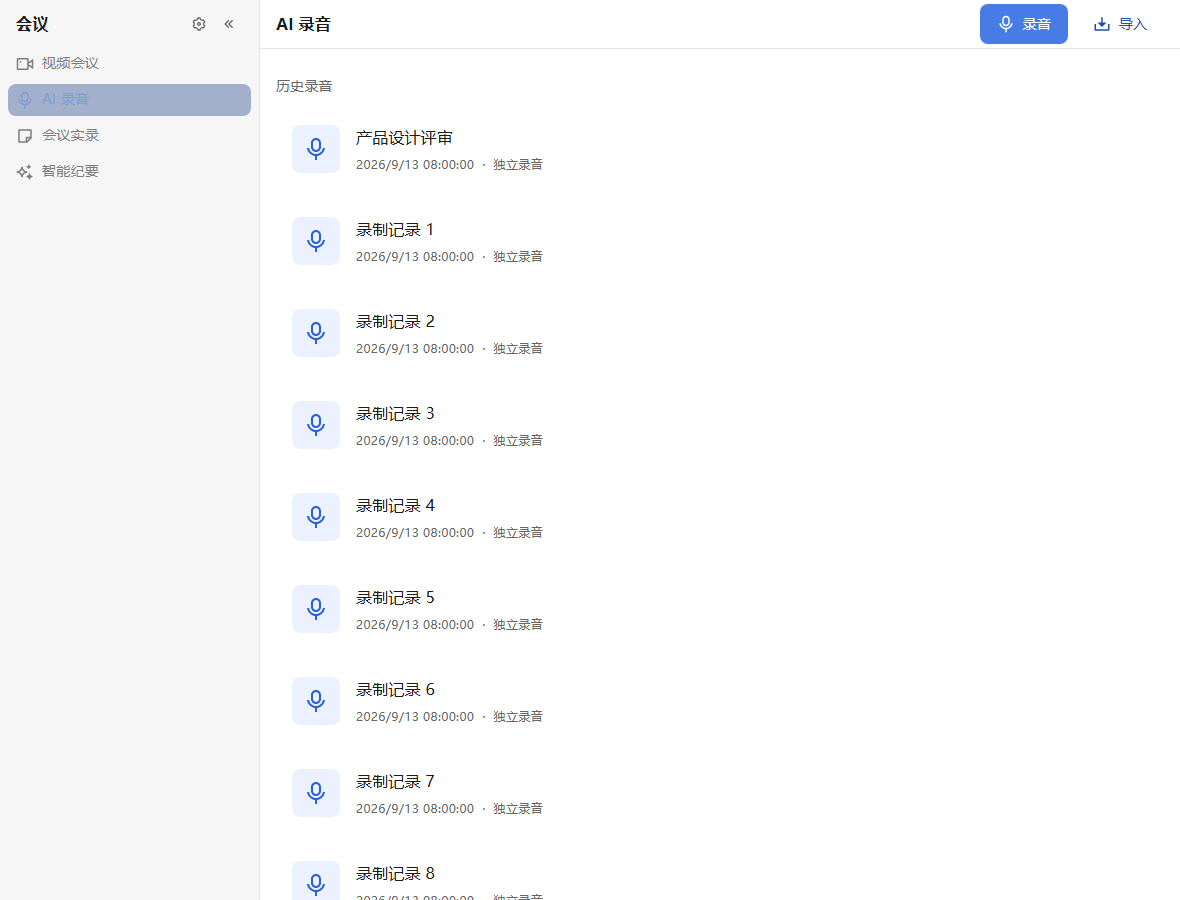
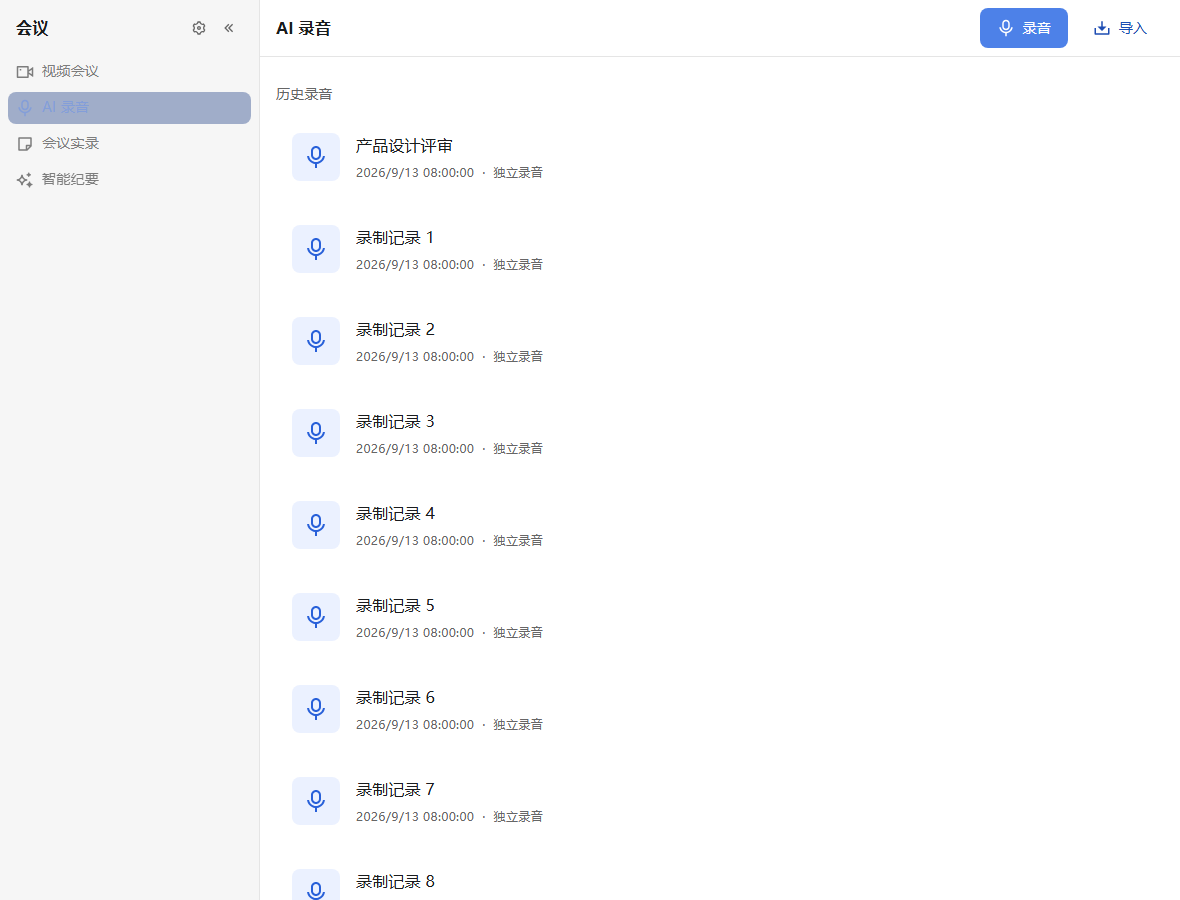
style(ui): settle every title bar at 57px
用户复查:会议那条与其它模块一致了,但 48px 对消息模块偏小 —— 40px 头像上下只剩 4px。
按要求统一到 57px(56 内容 + 1px 线):

- TitleBar:两种形态都 57px。去掉「有前导时内边距收到 4px」那条特例,统一 paddingY 8、
  minHeight calc(3.5rem + 1px);40px 头像上下各 8px 呼吸空间。
- SubNavHeader(六个模块的二级导航栏栏头):minHeight 直接用 3.5rem = 56(它没有底
  分割线,内容高与 TitleBar 相同,两条并排的头仍然对齐)。
- 会议模块 pageHeaderRow:同样 3.5rem = 56,加上固定区底边那条线就是 57。

一处定义:components/TitleBar.tsx 导出 TITLE_BAR_MIN_HEIGHT(3.5rem),TitleBar 自己
用 calc(3.5rem + 1px);SubNav 与会议页头直接 import 同一个常量 —— 以后调高度只改一行。

走查同步:check-title-bar.mjs 两种形态都断言 57px + paddingY 8;
check-subnav-panels.mjs 栏头 56;check-meeting-pages-ui.mjs 标题行 56 / 白条 <=57 / 栏头 56。

验证:vitest 162 文件 1043 条、lint / prettier / color / foundation / tsc / build 全绿;
三个走查全绿;截图已刷新。

diff --git a/src/frontend/src/components/TitleBar.tsx b/src/frontend/src/components/TitleBar.tsx
@@ -3,6 +3,20 @@ import { type CSSProperties, type ReactNode } from 'react'
 import { css } from '@/styled-system/css'
 
 /**
+ * 标题栏的**统一高度**（一处定义，TitleBar / SubNavHeader / 会议模块的页头都用它）。
+ *
+ * `3.5rem` = 56px 是**内容高**（40px 头像 + 上下各 8px 内边距）；TitleBar 自己还有 1px
+ * 底分割线，所以它量到的总高是 **57px**（下面的 `calc(3.5rem + 1px)`），会议模块的页头
+ * 同理（固定区底边那条线）。走查反馈：48px 那版对消息模块偏小 —— 40px 头像上下只剩
+ * 4px，太挤；57px 让头像有 8px 呼吸空间，同时六个模块（消息 / 日历 / 会议 / 审批 /
+ * 任务 / 通讯录）仍然同高。
+ */
+export const TITLE_BAR_MIN_HEIGHT = '3.5rem'
+
+/** 标题栏自身高度（含那 1px 底分割线），量到的就是 57px。 */
+const barMinHeight = `calc(${TITLE_BAR_MIN_HEIGHT} + 1px)`
+
+/**
  * 内容区标题栏（2026-09-17 起全站一处定义，形态照飞书聊天窗口那一栏）：
  *
  *   [图标/头像(可选)] 标题(16px bold，过长省略) 备注(可选，如「5 人」)  ……右侧动作
@@ -11,10 +25,9 @@ import { css } from '@/styled-system/css'
  *   ① 标题与备注**同一行、不换行** —— 原先「标题 + 人数」上下两行的地方
  *      （任务「我负责的 / 5 个任务」、通讯录「内部联系人 / 14 人」）一长就高一截；
  *   ② 标题可被挤到省略号，备注 `flexShrink: 0` 不被挤掉（人数/结果数是最该看见的）；
- *   ③ 几何统一：**栏高一律 48px**（`controlHeight.large`，与二级导航栏、任务/通讯录/
- *      审批、会议四个一级页的标题栏同高）、1px 底分割线、白底。无前导时靠 8px 纵向
- *      内边距撑到 48；有 40px 前导头像时内边距收到 4px —— 48 是这个栏的**高度基准**，
- *      不因为放了个头像就长高。
+ *   ③ 几何统一：内边距 16/8、高 `TITLE_BAR_MIN_HEIGHT`（56 + 1px 线 = 57）、
+ *      1px `border.subtle` 底分割线、白底。有 40px 前导头像时也是这个高度 ——
+ *      栏高不因为放了个头像就变，头像靠 8px 内边距装进去。
  */
 export const TitleBar = ({
   leading,
@@ -41,13 +54,7 @@ export const TitleBar = ({
 }) => (
   <div
     className={barCls}
-    style={
-      {
-        ...(paddingRight ? { paddingRight } : {}),
-        // 40px 前导装进 48px 的栏:上下各 4px(内联样式,不与 barCls 抢同一个原子类)。
-        ...(leading ? { paddingTop: '4px', paddingBottom: '4px' } : {}),
-      } as CSSProperties
-    }
+    style={paddingRight ? ({ paddingRight } as CSSProperties) : undefined}
     data-testid="title-bar"
   >
     {leading && (
@@ -89,7 +96,7 @@ const barCls = css({
   gap: 'sm',
   paddingX: 'lg',
   paddingY: 'sm',
-  minHeight: 'controlHeight.large',
+  minHeight: barMinHeight,
   borderBottom: '1px solid token(colors.border.subtle)',
   backgroundColor: 'surface.default',
 })

diff --git a/src/frontend/src/components/SubNav.tsx b/src/frontend/src/components/SubNav.tsx
@@ -8,6 +8,7 @@ import {
 
 import { css } from '@/styled-system/css'
 import { IconButton } from '@/primitives'
+import { TITLE_BAR_MIN_HEIGHT } from './TitleBar'
 
 /**
  * 二级导航栏的**共享栏头**（2026-09-17 起，以「通讯录」左栏为基准的一处定义）。
@@ -35,8 +36,9 @@ const headerCls = css({
   gap: 'sm',
   paddingX: 'lg',
   paddingY: 'sm',
-  // 栏高与内容区标题栏(TitleBar)统一到 48px —— 一级页左栏与右栏两条头同高。
-  minHeight: 'controlHeight.large',
+  // 栏高与内容区标题栏(TitleBar)统一(一处定义,见 TITLE_BAR_MIN_HEIGHT)——
+  // 一级页左栏与右栏两条头同高。
+  minHeight: TITLE_BAR_MIN_HEIGHT,
 })
 
 const titleCls = css({

diff --git a/src/frontend/src/features/meetings/components/libraryStyles.ts b/src/frontend/src/features/meetings/components/libraryStyles.ts
@@ -1,4 +1,5 @@
 import { css, cx } from '@/styled-system/css'
+import { TITLE_BAR_MIN_HEIGHT } from '@/components/TitleBar'
 
 /**
  * 会议模块的页面样板（以「智能纪要」页验收通过的那一版为准，2026-09-16）。
@@ -149,7 +150,7 @@ export const pageHeaderRow = css({
   alignItems: 'center',
   justifyContent: 'space-between',
   gap: 'md',
-  minHeight: 'controlHeight.large',
+  minHeight: TITLE_BAR_MIN_HEIGHT,
 })
 
 /** 页头右侧动作组:窄屏换行、右对齐(实录 / 纪要 / 视频会议共用同一档)。间距取

diff --git a/CHANGELOG.md b/CHANGELOG.md
@@ -139,6 +139,8 @@ and this project adheres to
   48px height, instead of 48 / 52 / 57 / 60 depending on the page
 - 🎨(frontend) pull the meeting title bar's white band down to 48px so its
   title sits centred above the divider
+- 🎨(frontend) settle every title bar at 57px, giving the chat avatar its 8px
+  of breathing room again
 
 ### Fixed
 
